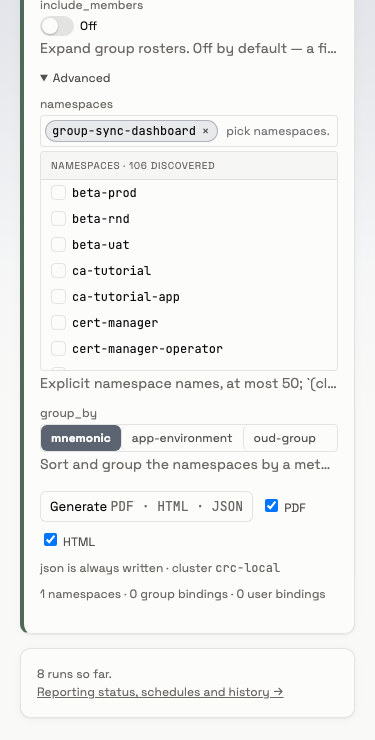
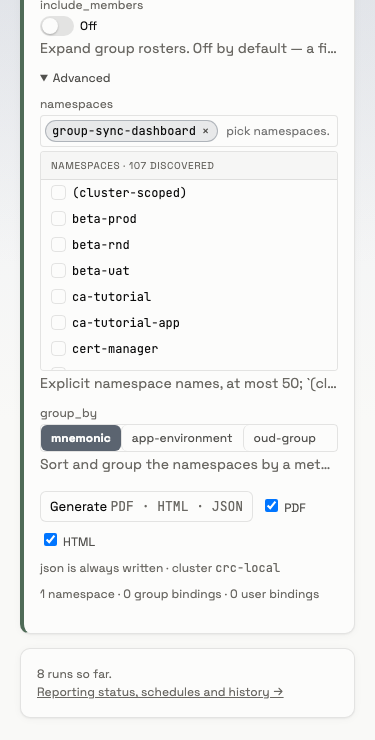
docs(report): #143 re-walked at ef91c74 — (cluster-scoped) first among 107 options, '1 namespace', the same preview POST

Changed region(s): [[0.176, 0.2176, 0.5573, 0.373], [0.3227, 0.777, 0.88, 0.8081], [0.264, 0.373, 0.5867, 0.4973]]

diff --git a/reports/2026-09-20_picker-preview-143/walk.py b/reports/2026-09-20_picker-preview-143/walk.py
@@ -48,7 +48,7 @@ def main():
         print("typeahead: 'group-sync' →", narrowed)
         pick = narrowed[0] if narrowed else listed[0]
         page.click(f'[data-lookup-opt="namespaces"][data-value="{pick}"]'); page.wait_for_selector(f'.rp-tag[data-name="{pick}"]')
-        page.wait_for_function("() => /^\\d+ namespaces/.test(document.getElementById('report-totals').textContent)", timeout=20_000)
+        page.wait_for_function("() => /^\\d+ namespaces?/.test(document.getElementById('report-totals').textContent)", timeout=20_000)
         print("totals  :", pick, "→", page.locator("#report-totals").inner_text())
         last = previews[-1]; print("preview : POST", last[1], "→", last[0], last[2][:160])
         print("generate: enabled", page.locator("#report-generate").is_enabled())

diff --git a/reports/2026-09-20_picker-preview-143/README.md b/reports/2026-09-20_picker-preview-143/README.md
@@ -1,20 +1,21 @@
 # The namespace picker, the reviewer prefill and the totals preview on CRC — the walk behind #143 phases 2–3
 
-Deployed head `44587ce` (`feat/143-picker-preview`, through the Argo Application; `running : 44587ce783 —
-verified in-pod`), walked with `walk.py` through the OAuth proxy as kubeadmin, Chromium 1280×900 then
+Deployed head `ef91c74` (`feat/143-picker-preview` after its review pass, through the Argo Application;
+`running : ef91c7426e — verified in-pod`; the first walk at `44587ce` read the same lines with "1 namespaces" and no
+`(cluster-scoped)` option — the review changed both), walked with `walk.py` through the OAuth proxy as kubeadmin, Chromium 1280×900 then
 375×740. Every line below is the script's own output.
 
 | #143 claim | measured |
 |---|---|
 | the totals preview refuses an unscoped form before Generate does | `totals  : unscoped → preview: select at least one namespace, by selector, mnemonic or explicit name` |
-| the explicit names are a picker over the poll's namespaces | `picker  : 106 namespaces discovered on crc-local, first ['beta-prod', 'beta-rnd', 'beta-uat', 'ca-tutorial', 'ca-tutorial-app']` |
+| the explicit names are a picker over the poll's namespaces, `(cluster-scoped)` first | `picker  : 107 namespaces discovered on crc-local, first ['(cluster-scoped)', 'beta-prod', 'beta-rnd', 'beta-uat', 'ca-tutorial']` |
 | type-ahead narrows it | `typeahead: 'group-sync' → ['group-sync-dashboard', 'group-sync-operator']` |
-| a pick gives the totals of that run | `totals  : group-sync-dashboard → 1 namespaces · 0 group bindings · 0 user bindings` |
+| a pick gives the totals of that run | `totals  : group-sync-dashboard → 1 namespace · 0 group bindings · 0 user bindings` |
 | the POST and the answer | `POST {"report":"namespace-access","cluster":"crc-local","params":{"namespaces":["group-sync-dashboard"]}} → 200 {"totals":{"namespaces":1,"group_bindings":0,"user_bindings":0},"truncated":false,"snapshot":"2026-09-20T08:39…"}` |
 | Generate never disabled by it | `generate: enabled True` |
 | the reviewer prefilled from the signed-in name | `reviewer: prefilled 'kubeadmin' | signed in as kubeadmin` |
 | a required field's refusal shown as the preview | `totals  : certification, unscoped → preview: campaign is required` |
-| 375 px | `no-x-overflow, picker options [True, 106]`; `Advanced open True | picker input top 120` |
+| 375 px | `no-x-overflow, picker options [True, 107]`; `Advanced open True | picker input top 120` |
 | no uncaught error | `errors  : []` |
 
 Captures: `01-namespace-picker.png`, `02-totals-beside-generate.png`, `03-reviewer-prefilled.png`,
